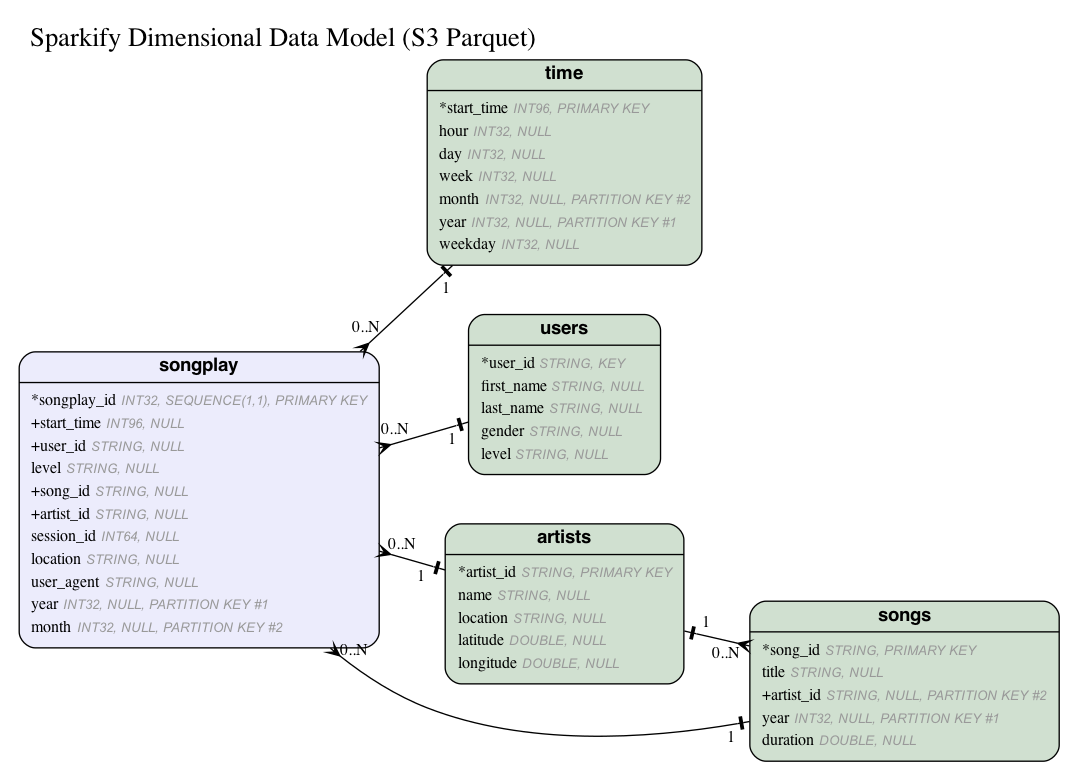
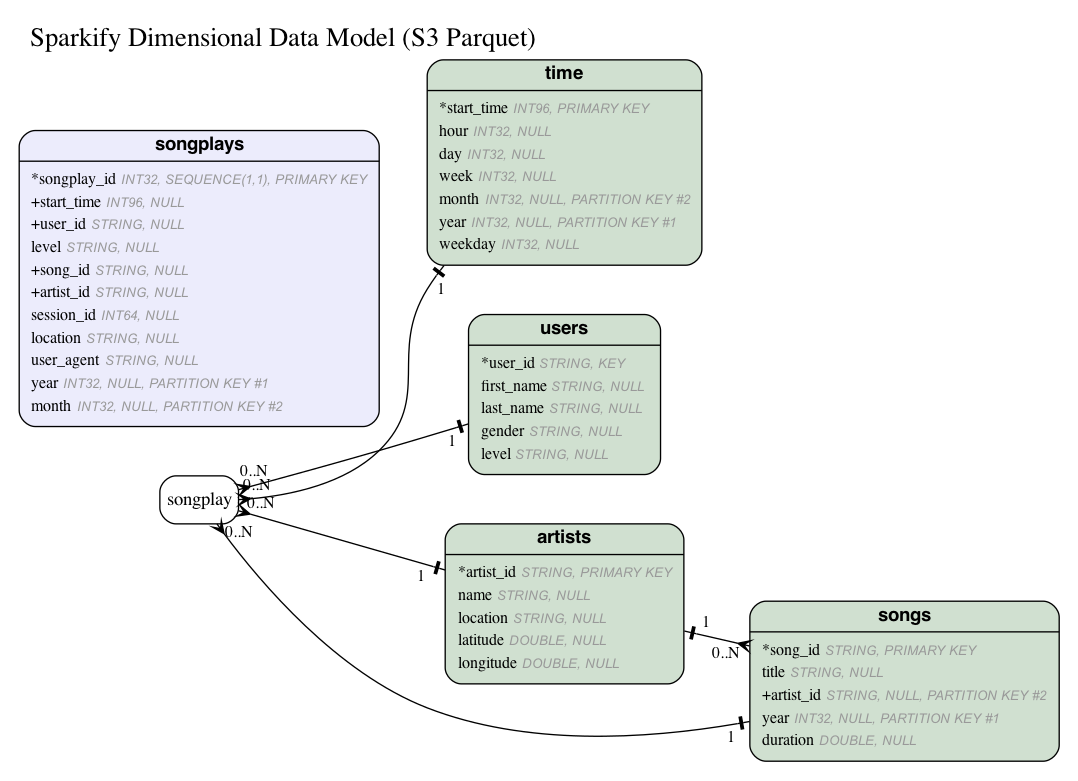
docs: Update README with dimensional model

diff --git a/README.md b/README.md
@@ -1,0 +1,63 @@
+# Million Song Dataset JSON -> Spark on AWS EMR -> AWS S3
+
+Load data from the [Million Song Dataset](https://labrosa.ee.columbia.edu/millionsong/) into a final dimensional model stored in S3. 
+
+## Introduction
+
+A fictional music streaming startup, Sparkify, has grown their user base and song database and want to move their processes and data onto the cloud. Their data resides in S3, in a directory of JSON logs on user activity on the app, as well as a directory with JSON metadata on the songs in their app. The files in this repository will assist in loading the data into a final dimensional model stored in Amazon S3.
+
+## Design - Dimensional Model & ETL
+
+Data is extracted from AWS S3 JSON files and inserted into the dimensional model shown below.
+
+![dimensional-model](./images/dimensional_model.er.png)
+
+#### Design Decisions
+
+* The `songplays` parquet file is partitioned by `year` and `month`
+* The `time` parquet file is partitioned by `year` and `month`
+* The `songs` parquet file is partitioned by `year` and `artist_id`
+
+## Files
+
+* dimensional_model.er
+  * Entity-relationship file used to generate ER diagram images. See https://github.com/kaishuu0123/vscode-erd
+* etl.py
+  * Create parquet files for dimensional model & store to Amazon S3
+* run_etl.py
+  * Optional: create AWS EMR cluster and run etl.py
+* install-requirements.sh
+  * Bash script to install necessary python3 packages to run etl.py
+* dl.cfg
+  * Config file for all necessary variables for AWS EMR
+
+## Installation
+
+Clone this repository:
+
+`git clone https://github.com/rigganni/AWS-Spark-Million-Song-ETL`
+
+Set up the following variables in dl.cfg:
+
+| variable | description |
+| ------------ | --------- |
+| AWS_ACCESS_KEY_ID | AWS access key |
+| AWS_SECRET_ACCESS_KEY | AWS secret key |
+| AWS_REGION | **us-west-2** as source S3 bucket is located in that region |
+| AWS_S3_LOG_URI  | Logging location for EMR stdout, stderr, etc. |
+| AWS_EC2_KEY_NAME | optional: use if utilizing run_etl.py |
+| AWS_EC2_SUBNET_ID  | optional: use if utilizing run_etl.py |
+| AWS_MASTER_PRIVATE_IP | opitonal: use if utilizing run_etl.py & want to assign private ip address |
+| AWS_HDFS_ADDRESS_PORT | specify HDFS address & port |
+
+## Usage
+
+Ensure variables are set up in dl.cfg as described in installation above.
+
+Optional: Create EMR cluster with `run_etl.py` and run `etl.py`. After `etl.py` completes cluster terminates.
+
+`python run_etl.py`
+
+Or run `etl.py` on existing AWS EMR cluster:
+
+`python etl.py`
